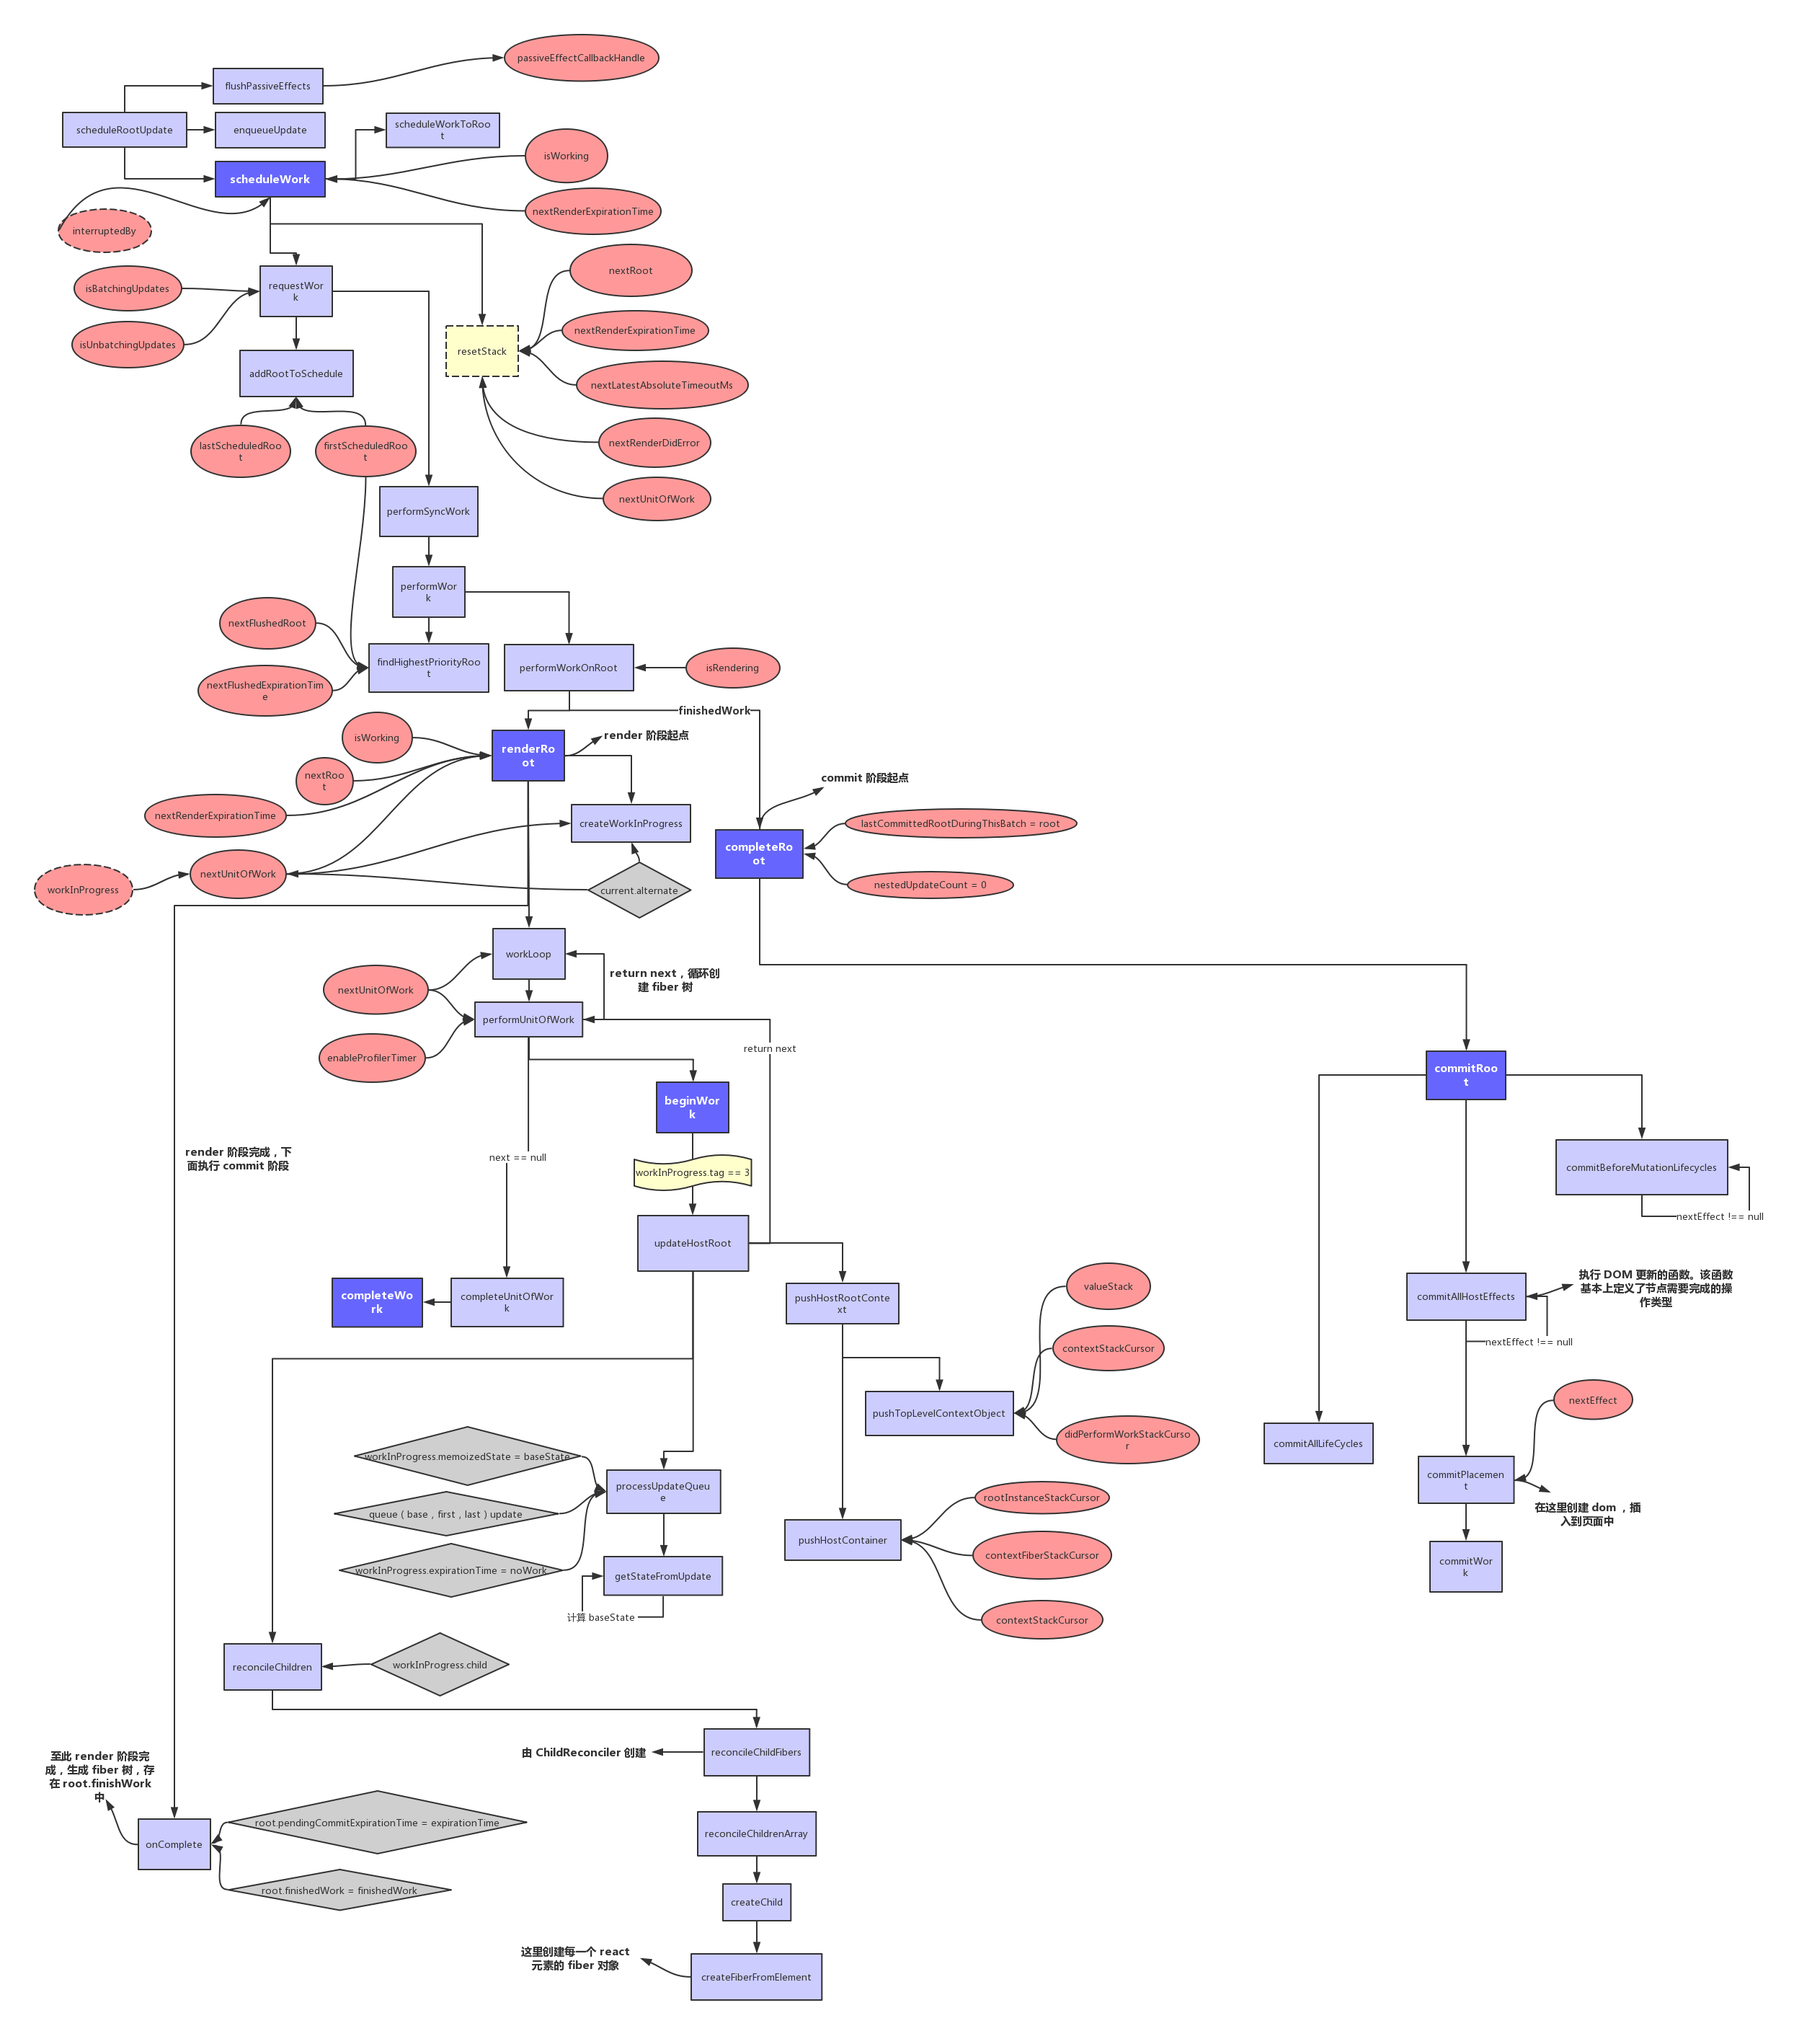
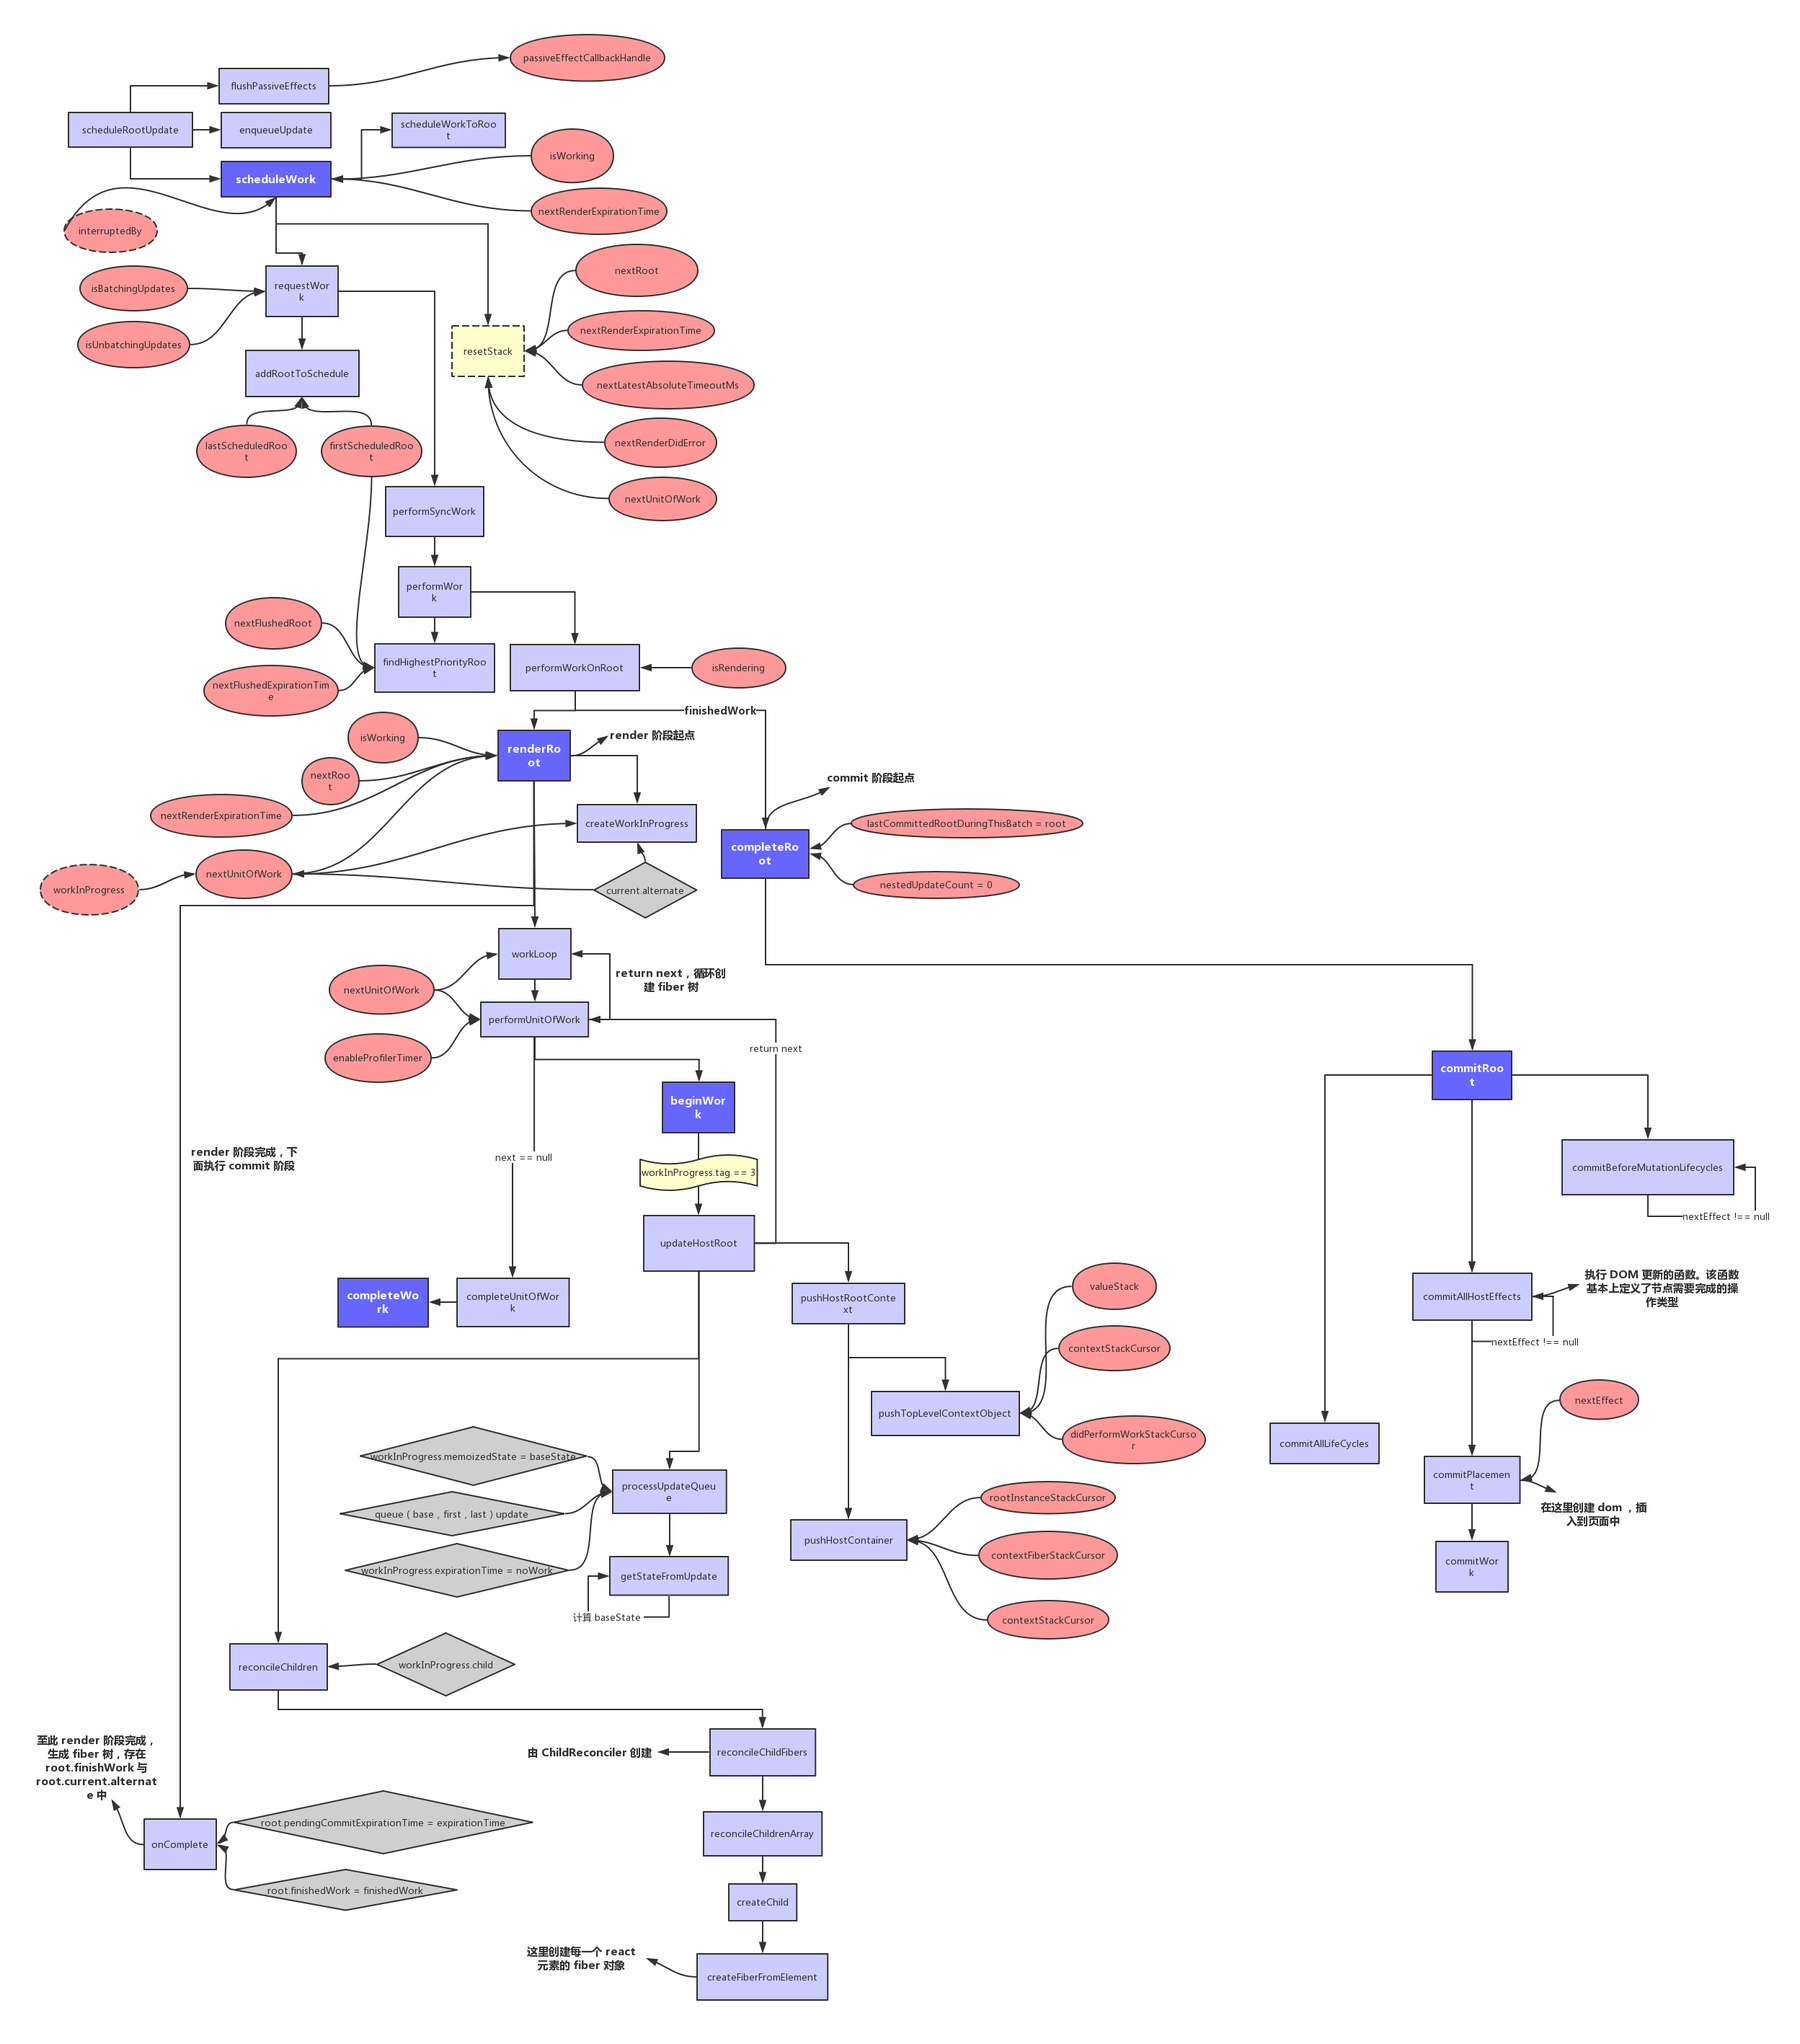
asdf

diff --git a/react-master/packages/react-reconciler/src/ReactFiberScheduler.js b/react-master/packages/react-reconciler/src/ReactFiberScheduler.js
@@ -663,6 +663,7 @@ function commitRoot(root: FiberRoot, finishedWork: Fiber): void {
     if (finishedWork.lastEffect !== null) {
       // 走这里
       finishedWork.lastEffect.nextEffect = finishedWork;
+      // firstEffect 被赋值为更新的 fiber 树，在 render 阶段，就是从 App 开始的完整的 fiber 树
       firstEffect = finishedWork.firstEffect;
     } else {
       firstEffect = finishedWork;
@@ -2548,7 +2549,7 @@ function performWorkOnRoot(
 
   isRendering = false;
 }
-// analysising
+
 function completeRoot(
   root: FiberRoot,
   finishedWork: Fiber,
@@ -2585,6 +2586,7 @@ function completeRoot(
     lastCommittedRootDuringThisBatch = root;
     nestedUpdateCount = 0;
   }
+  // root.current.alternate 和 finishedWork 都存了完整的 fiber 树
   commitRoot(root, finishedWork);
 }
 

diff --git a/react-master/packages/react-reconciler/src/ReactUpdateQueue.js b/react-master/packages/react-reconciler/src/ReactUpdateQueue.js
@@ -427,6 +427,8 @@ function getStateFromUpdate<State>(
  * 
  * 在 ReactDOM.render 初始化过程中，把 queue 中的 firstUpdate 清空，合并到 baseUpdate 中
  * 同时清空 lastUpdate（初始化赋值时，firstUpdate 与 lastUpdate 相等）
+ * 
+ * 设置 updateQueue.firstEffect 和 updateQueue.lastEffect
  */
 export function processUpdateQueue<State>(
   workInProgress: Fiber,
